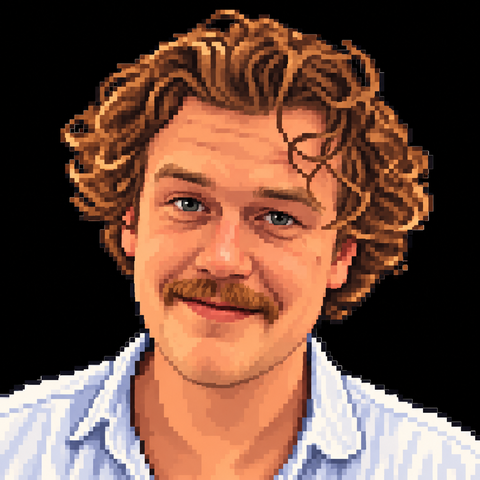
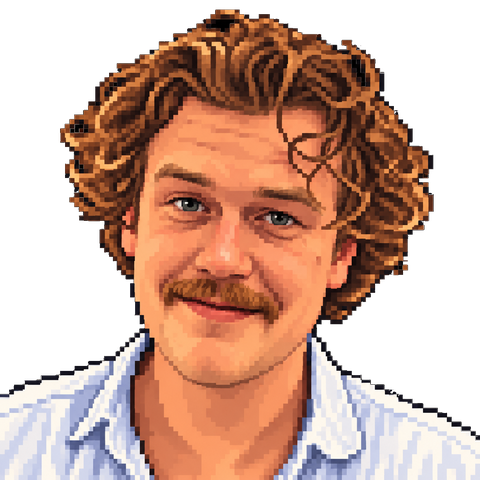
Transparante achtergrond Teun, app-icoon voor beginscherm, donkerder dark mode, ijskast onder titel, zwakte-tekst
Claude-Session: https://claude.ai/code/session_01KJRZU8uxvrLg3XbKjT1mWK

diff --git a/index.html b/index.html
@@ -4,6 +4,10 @@
 <meta charset="UTF-8">
 <meta name="viewport" content="width=device-width, initial-scale=1, viewport-fit=cover">
 <title>Huize Noord</title>
+<link rel="apple-touch-icon" href="images/apple-touch-icon.png">
+<link rel="icon" type="image/png" sizes="32x32" href="images/favicon-32.png">
+<meta name="apple-mobile-web-app-capable" content="yes">
+<meta name="apple-mobile-web-app-title" content="Huize Noord">
 <style>
 :root {
   --bg: #f7fcf9;
@@ -28,36 +32,36 @@
 
 @media (prefers-color-scheme: dark) {
   :root:not([data-theme="light"]) {
-    --bg: #081c15;
+    --bg: #050b08;
     --fg: #e7f7ec;
-    --card: #0f2b1f;
-    --card-alt: #123524;
-    --border: #1b4332;
+    --card: #0c1813;
+    --card-alt: #10211a;
+    --border: #1b2e25;
     --accent: #52b788;
-    --accent-light: #163d2b;
+    --accent-light: #122a1d;
     --success: #52b788;
-    --success-light: #163d2b;
+    --success-light: #122a1d;
     --warning: #f2b85c;
-    --warning-light: #3a2a12;
+    --warning-light: #2a1f0f;
     --danger: #f87171;
-    --text-secondary: #8fc9a8;
+    --text-secondary: #7a9c8a;
     color-scheme: dark;
   }
 }
 :root[data-theme="dark"] {
-  --bg: #081c15;
+  --bg: #050b08;
   --fg: #e7f7ec;
-  --card: #0f2b1f;
-  --card-alt: #123524;
-  --border: #1b4332;
+  --card: #0c1813;
+  --card-alt: #10211a;
+  --border: #1b2e25;
   --accent: #52b788;
-  --accent-light: #163d2b;
+  --accent-light: #122a1d;
   --success: #52b788;
-  --success-light: #163d2b;
+  --success-light: #122a1d;
   --warning: #f2b85c;
-  --warning-light: #3a2a12;
+  --warning-light: #2a1f0f;
   --danger: #f87171;
-  --text-secondary: #8fc9a8;
+  --text-secondary: #7a9c8a;
   color-scheme: dark;
 }
 
@@ -73,8 +77,8 @@ body {
   line-height: 1.5;
 }
 
-.container { max-width: 600px; margin: 0 auto; padding-block: 24px; padding-bottom: 88px; }
-.header { margin-bottom: 20px; }
+.container { max-width: 600px; margin: 0 auto; padding-block: 24px; }
+.header { margin-bottom: 0; }
 h1 { font-size: 28px; font-weight: 700; margin: 0; letter-spacing: -0.5px; color: var(--accent); }
 
 .tabs {
@@ -239,10 +243,9 @@ input[type="checkbox"] { width: 18px; height: 18px; cursor: pointer; accent-colo
 
 /* Fridge bar */
 .fridge-bar {
-  position: fixed; left: 0; right: 0; bottom: 0; z-index: 500;
-  background: var(--card); border-top: 1px solid var(--border);
   display: flex; align-items: center; justify-content: center; gap: 14px;
-  padding: 10px max(16px, env(safe-area-inset-left, 0px)) calc(10px + env(safe-area-inset-bottom, 0px)) max(16px, env(safe-area-inset-right, 0px));
+  background: var(--card-alt); border: 1px solid var(--border); border-radius: 10px;
+  padding: 10px 14px; margin: 14px 0 20px;
 }
 .fridge-icon { font-size: 20px; }
 .fridge-label { font-size: 13px; color: var(--text-secondary); font-weight: 600; }
@@ -294,6 +297,14 @@ input[type="checkbox"] { width: 18px; height: 18px; cursor: pointer; accent-colo
 <div class="container">
   <div class="header">
     <h1>Huize Noord</h1>
+  </div>
+
+  <div class="fridge-bar">
+    <span class="fridge-icon">🍺</span>
+    <span class="fridge-label">IJskast</span>
+    <button class="fridge-btn minus" id="fridgeMinus">−</button>
+    <span class="fridge-count" id="fridgeCount">-</span>
+    <button class="fridge-btn plus" id="fridgePlus">+</button>
   </div>
 
   <div class="tabs">
@@ -372,14 +383,6 @@ input[type="checkbox"] { width: 18px; height: 18px; cursor: pointer; accent-colo
   </div>
 </div>
 
-<div class="fridge-bar">
-  <span class="fridge-icon">🍺</span>
-  <span class="fridge-label">IJskast</span>
-  <button class="fridge-btn minus" id="fridgeMinus">−</button>
-  <span class="fridge-count" id="fridgeCount">-</span>
-  <button class="fridge-btn plus" id="fridgePlus">+</button>
-</div>
-
 <div class="toast" id="toast"></div>
 
 <script type="module">
@@ -404,7 +407,7 @@ const db = getFirestore(app);
 const PEOPLE = ['Teun', 'Hidde', 'David', 'Boris']; // r0 index 0,1,2,3
 const ROOMS = ['Badkamer', 'Gangen', 'Keuken', 'Wc'];
 const ANCHOR = new Date(2026, 8, 7, 12, 0, 0); // maandag 7 sept 2026, 12:00 lokale tijd
-const KRYPTONITE = { Boris: 'Gluten', Hidde: "GHB'ers", David: 'Stabiele relaties', Teun: 'Hardlopen' };
+const ZWAKTE = { Boris: 'Gluten', Hidde: 'Knorren', David: 'Stabiele relaties', Teun: 'Hardlopen' };
 const GLUTEN_KEYWORDS = [
   'brood','pasta','bloem','koek','cracker','beschuit','pizza','bier','couscous',
   'gebak','deeg','noedel','cornflakes','muesli','soja','panko','paneermeel',
@@ -466,7 +469,7 @@ try { me = localStorage.getItem('huisapp_wie'); } catch {}
 function applyMeUI(){
   document.getElementById('meAvatar').src = me ? avatarSrc(me, 'lg') : '';
   document.getElementById('meName').textContent = me || '-';
-  renderKryptonite();
+  renderZwakte();
 }
 function setMe(person){
   me = person;
@@ -857,8 +860,8 @@ aanwezigList.querySelectorAll('.toggle-btn.eten').forEach(btn => {
   });
 });
 
-/* ---------- Account / Kryptonite ---------- */
-function renderKryptonite(){
+/* ---------- Account / Zwakte ---------- */
+function renderZwakte(){
   const grid = document.getElementById('kryptoniteGrid');
   grid.innerHTML = '';
   PEOPLE.forEach(person => {
@@ -867,13 +870,12 @@ function renderKryptonite(){
     card.innerHTML = `
       <img class="avatar avatar-md" src="${avatarSrc(person,'sm')}" alt="">
       <div class="kryptonite-name">${person}</div>
-      <div class="kryptonite-label">Kryptonite</div>
-      <div class="kryptonite-value">${KRYPTONITE[person]}</div>
+      <div class="kryptonite-value">Zwakte: ${ZWAKTE[person]}</div>
     `;
     grid.appendChild(card);
   });
 }
-renderKryptonite();
+renderZwakte();
 
 /* ---------- Ijskast ---------- */
 const fridgeRef = doc(db, 'fridge', 'beer');
